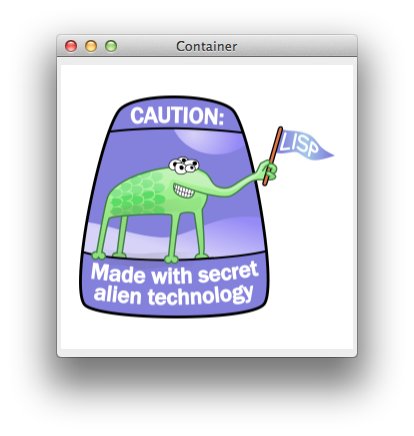
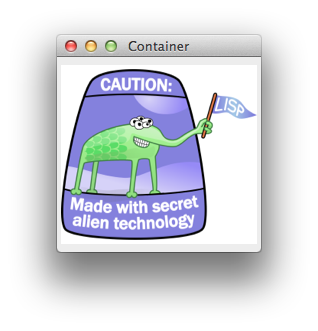
Updated README and screenshot.

diff --git a/README.md b/README.md
@@ -12,7 +12,7 @@ After loading the package, using the pane is very simple:
 	
 At this point a window should appear and a background process is spun up to download the image in the background. Once loaded, it should appear. The pane should be resizeable and the image should resize to fit, maintaining its original aspect ratio.
 
-![Made with secret alien technology](http://github.com/massung/http-image-pane/screenshot.png)
+![Made with secret alien technology](http://raw.github.com/massung/http-image-pane/master/screenshot.png)
 
 Since `http-image-pane` is just a subclass of `output-pane`, all the other `:default-initargs` like `:background` and `:input-model` can be used to manipulate the pane.
 
